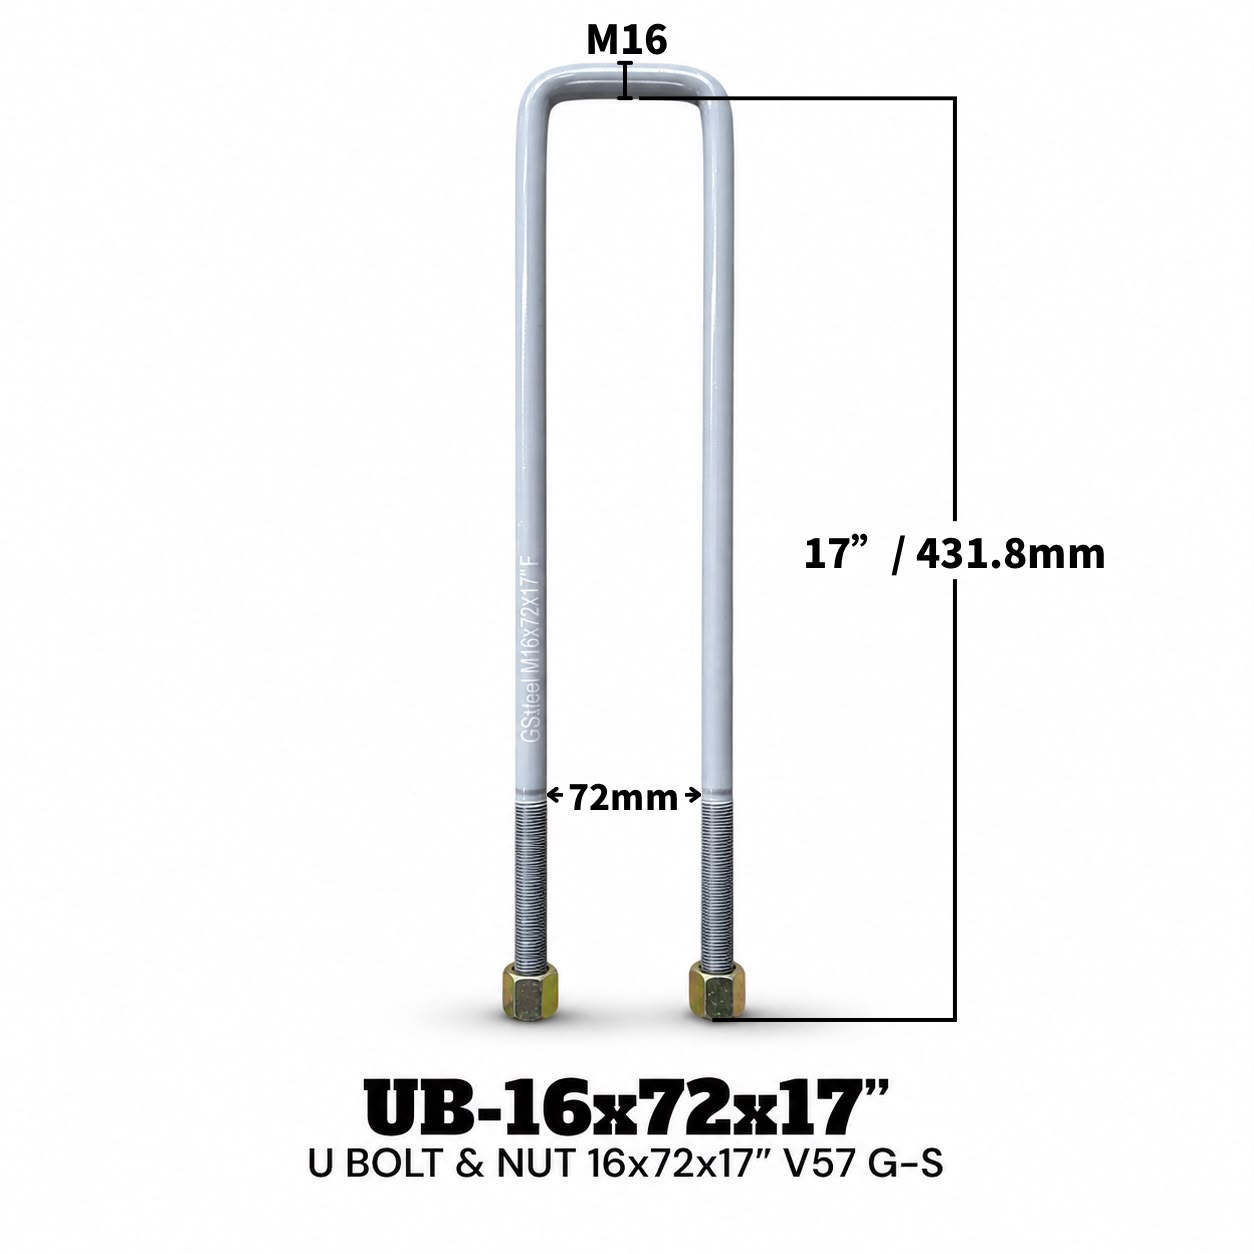
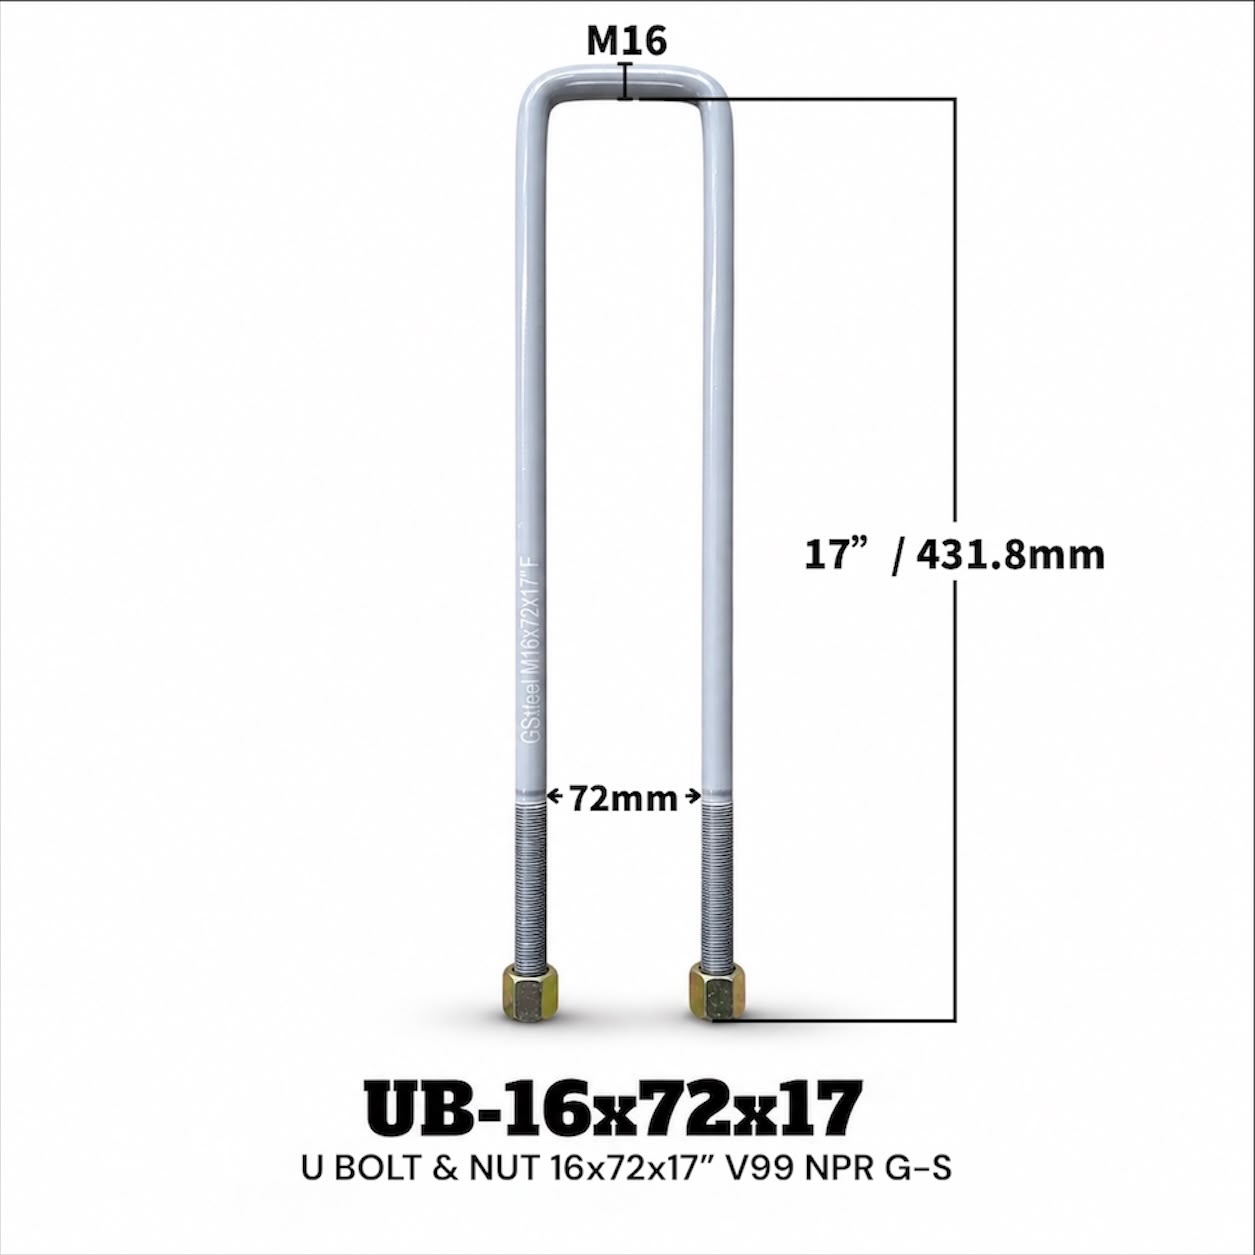
u bolt upload

diff --git a/ubolt.html b/ubolt.html
@@ -335,16 +335,77 @@ function searchProduct(){
     </div>
 
     <div class="product-box">
-        <img src="ub167213.jpg.jpg"onclick="openPopup(this.src)"> 
+        <img src="ub167213.jpg.jpeg"onclick="openPopup(this.src)"> 
         <h2>UB-16X72X13</h2>
         <p>U-BOLT & NUT 16X72X13" V99 G-S</p>
     </div>
 
     <div class="product-box">
-        <img src="ub249220.jpg.jpg"onclick="openPopup(this.src)"> 
+        <img src="ub249220f4.jpg.jpeg"onclick="openPopup(this.src)"> 
         <h2>UB-24X92X20</h2>
         <p>U-BOLT & NUT 24X92X20" V57 G-S</p>
     </div>
+
+    <div class="product-box">
+        <img src="ub14725.jpg.jpg"onclick="openPopup(this.src)"> 
+        <h2>UB-14X72X5</h2>
+        <p>U-BOLT & NUT 14X72X5" V57 G-S F4</p>
+    </div>
+
+    <div class="product-box">
+        <img src="ub14726.jpg.jpg"onclick="openPopup(this.src)"> 
+        <h2>UB-14X72X6</h2>
+        <p>U-BOLT & NUT 14X72X6" V57 G-S </p>
+    </div>
+
+    <div class="product-box">
+        <img src="ub14724.jpg.jpg"onclick="openPopup(this.src)"> 
+        <h2>UB-14X72X4</h2>
+        <p>U-BOLT & NUT 14X72X4" F4 </p>
+    </div>
+
+    <div class="product-box">
+        <img src="ub14727.jpg.jpg"onclick="openPopup(this.src)"> 
+        <h2>UB-14X72X7</h2>
+        <p>U-BOLT & NUT 14X72X7" V57 G-S </p>
+    </div>
+
+    <div class="product-box">
+        <img src="ub14729.jpg.jpg"onclick="openPopup(this.src)"> 
+        <h2>UB-14X72X9</h2>
+        <p>U-BOLT & NUT 14X72X9" V57 G-S </p>
+    </div>
+
+    <div class="product-box">
+        <img src="ub147210.jpg.jpg"onclick="openPopup(this.src)"> 
+        <h2>UB-14X72X10</h2>
+        <p>U-BOLT & NUT 14X72X10" V57 G-S </p>
+    </div>
+
+    <div class="product-box">
+        <img src="ub14728.jpg.jpg"onclick="openPopup(this.src)"> 
+        <h2>UB-14X72X8</h2>
+        <p>U-BOLT & NUT 14X72X8" V57 G-S </p>
+    </div>
+
+    <div class="product-box">
+        <img src="ub147214.jpg.jpg"onclick="openPopup(this.src)"> 
+        <h2>UB-14X72X14</h2>
+        <p>U-BOLT & NUT 14X72X14" V57 G-S </p>
+    </div>
+
+    <div class="product-box">
+        <img src="ub14727.jpg.jpg"onclick="openPopup(this.src)"> 
+        <h2>UB-14X72X7</h2>
+        <p>U-BOLT & NUT 14X72X7" V99 NPR G-S </p>
+    </div>
+
+    <div class="product-box">
+        <img src="ub147212.jpg.jpg"onclick="openPopup(this.src)"> 
+        <h2>UB-14X72X12</h2>
+        <p>U-BOLT & NUT 14X72X12" V57 G-S </p>
+    </div>
+
 </div>
 <div id="popup" class="popup">
 